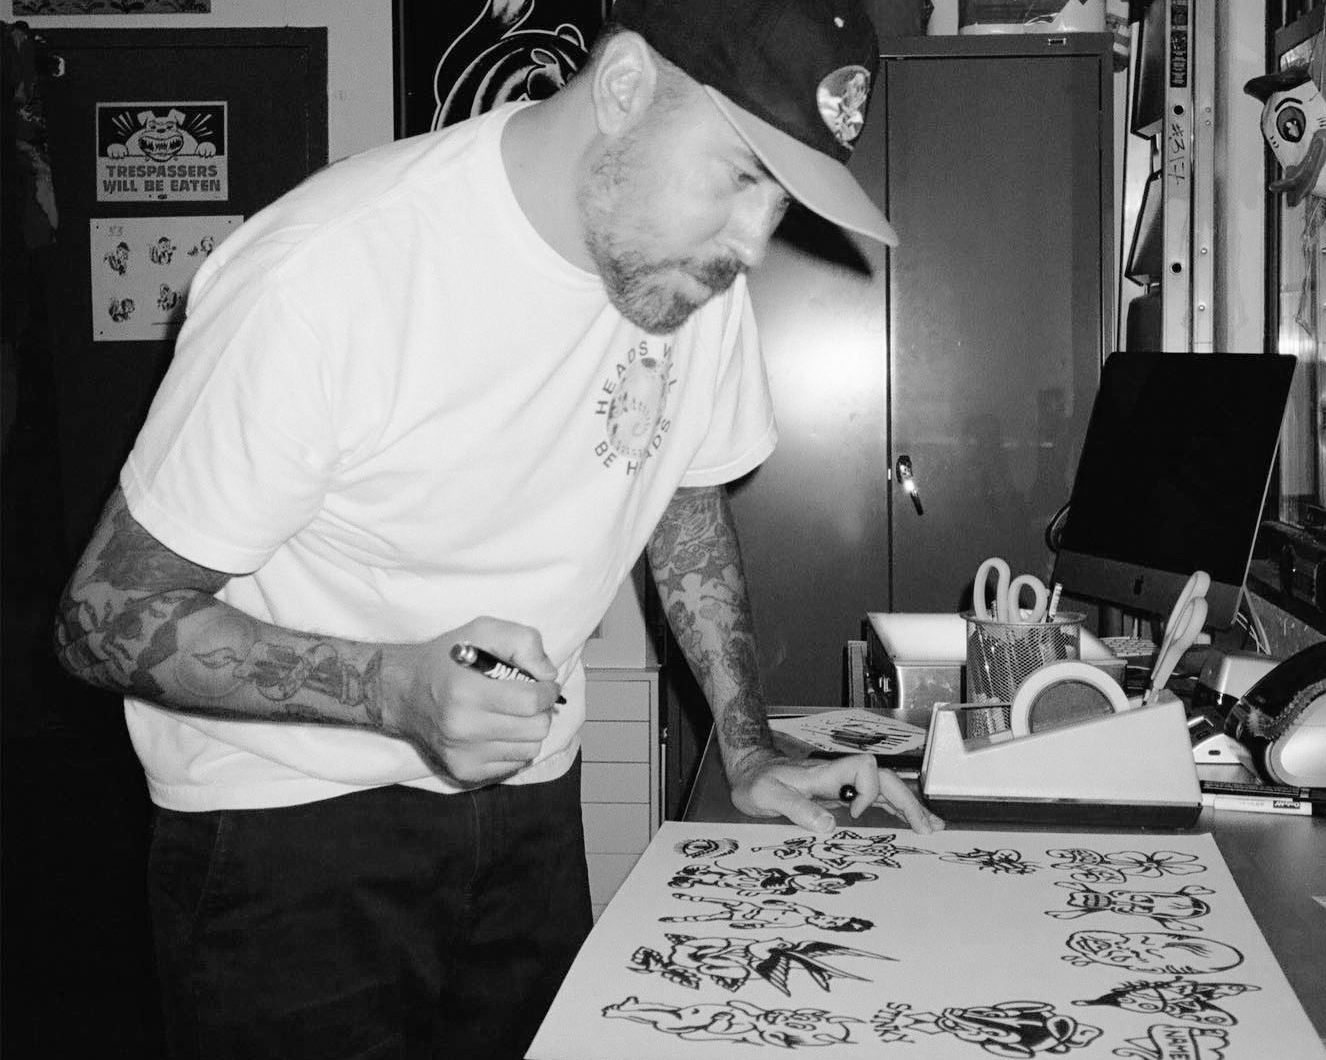
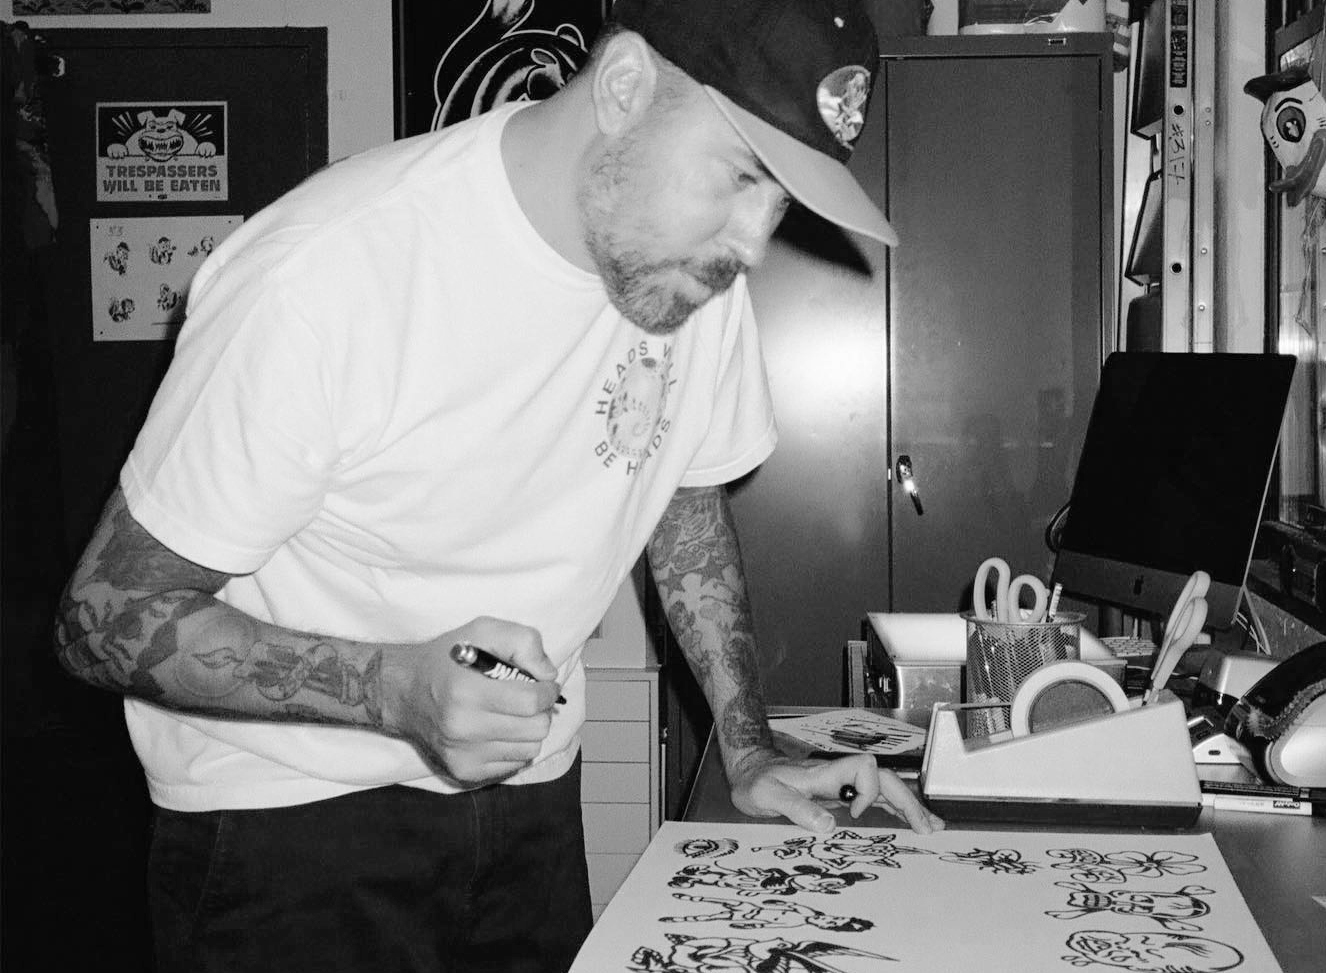
mobile and a bunch of other stuff

diff --git a/style.css b/style.css
@@ -1,19 +1,19 @@
 body {
-    background-color: black;
-    color: #eee;
+    background-color: white;
+    color: black;
     margin: 0;
-    padding: 200px;
+    padding: 200px 200px 0 200px;
     font-size: 1rem;
 }
 
 a {
-    color: #eee;
+    color: black;
     text-decoration: none;
-    border-bottom: 2px solid #eee;
+    border-bottom: 2px solid blue;
 }
 
 a:hover {
-    border-bottom: 2px solid #eee;
+    border-bottom: 2px solid black;
 }
 
 .roboto-regular {
@@ -39,15 +39,40 @@ main {
     text-align: left;
     display: flex;
     flex-direction: column;
-    gap: 50px;
+    gap: 100px;
 }
 
 #name {
-    margin-bottom: 10vh;
+    position: relative;
 }
 
 #name img {
     width: 50vw;
+    display: block;
+}
+
+#portrait {
+    position: absolute;
+    top: 50%;
+    left: 50%;
+    transform: translate(-50%, -50%);
+    opacity: 0;
+    transition: opacity 0.3s ease;
+}
+
+#name:hover #portrait {
+    opacity: 1;
+}
+
+#logo {
+    position: relative;
+    filter: invert(100%);
+    opacity: 1;
+    transition: opacity 0.3s ease;
+}
+
+#name:hover #logo {
+    opacity: 0;
 }
 
 #info {
@@ -63,10 +88,46 @@ main {
 #clients ul {
     list-style-type: none;
     text-align: left;
+    columns: 3;
+    column-gap: 50px;
 }
 
 #links {
+    margin-bottom: 50px;
     display: flex;
     flex-direction: row;
     justify-content: space-between;
+}
+
+@media (max-width: 640px) {
+    body {
+        padding: 10px;
+    }
+
+    #info {
+        width: 90vw;
+    }
+
+    #name {
+        margin-top: 180px;
+    }
+
+    #name img {
+        width: 90vw;
+    }
+
+    #clients {
+        flex-direction: column;
+        gap: 0px;
+    }
+
+    #clients p {
+        margin: 10px 0;
+    }
+
+    #clients ul {
+        columns: 2;
+        padding: 0;
+        margin: 0;
+    }
 }

diff --git a/index.html b/index.html
@@ -15,7 +15,10 @@
     <main>
       <div id="content-wrapper">
         
-        <div id="name" class="roboto-regular"><img src="img/fernando_lions.png"></div>
+        <div id="name" class="roboto-regular">
+          <img src="img/portrait.jpg" id="portrait" alt="">
+          <img src="img/fernando_lions.png" id="logo">
+        </div>
         
         <div id="info" class="roboto-regular">
           <p>
@@ -42,14 +45,10 @@
           </div>
         </div>
 
-        <div id="contact" class="roboto-regular">
-          For inquires and commissions please contact <a href="mailto:studio@streetdreams.nyc">studio@streetdreams.nyc</a>
-        </div>
-
         <div id="links" class="roboto-regular">
-          <a href="">Contact</a>
-          <a href="">Street Dreams</a>
-          <a href="">Store</a>
+          <a href="mailto:studio@streetdreams.nyc">Contact</a>
+          <a href="https://streetdreams.nyc">Street Dreams</a>
+          <a href="https://fernandolions.bigcartel.com">Store</a>
         </div>
 
       </div>
